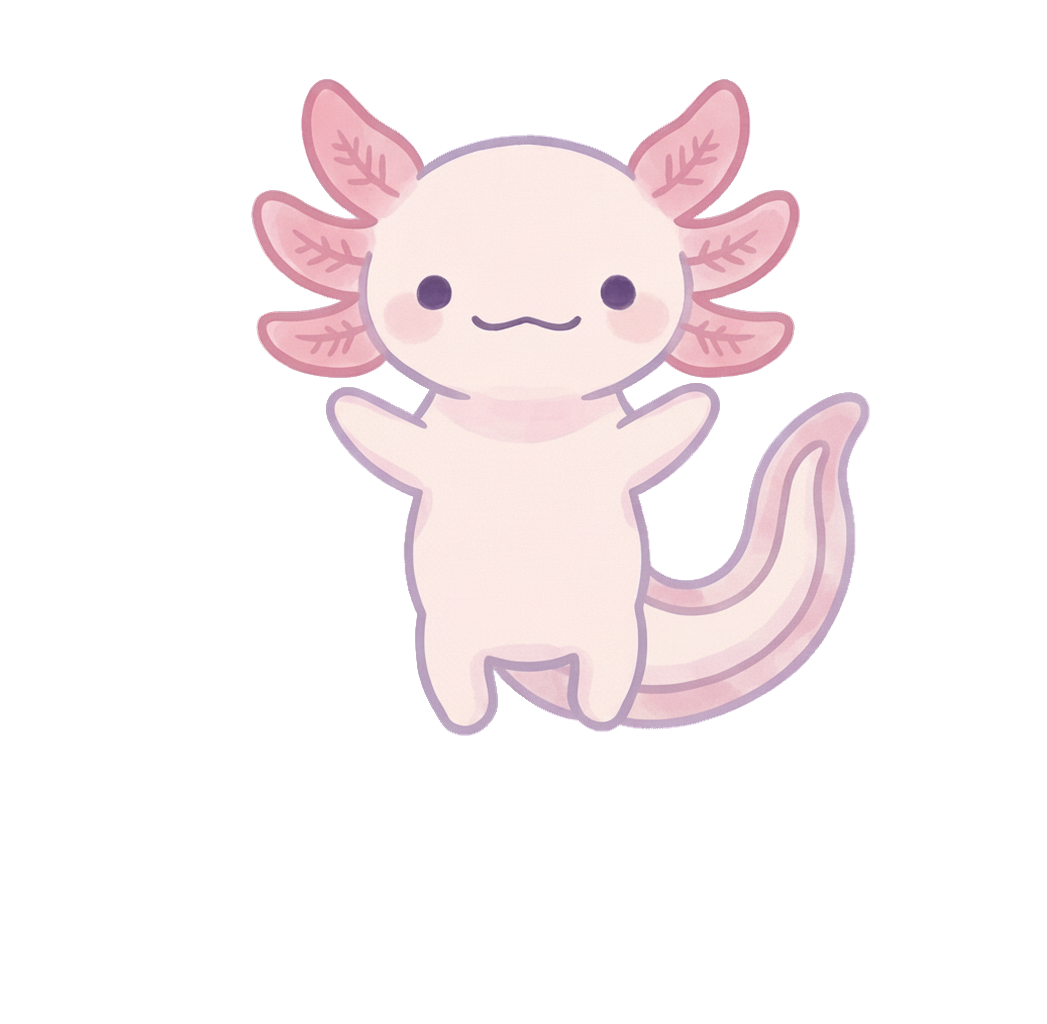
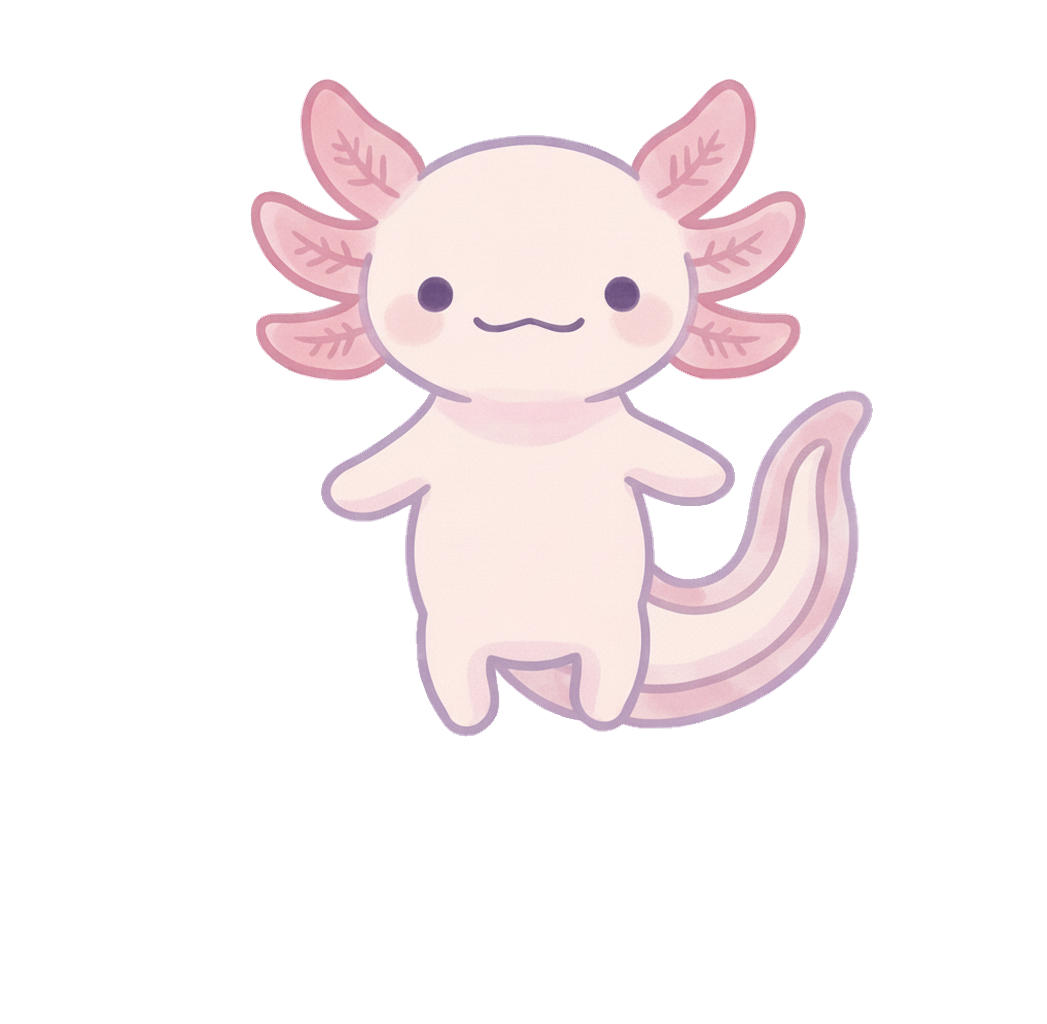
Correcciones de feedback: diagonal revertida, escala, hitbox, velocidad, tiburón
- swim_diagonal_01/02: revertidas a la versión previa al arreglo de la boca
  (commit d3a69e5) — pedido explícito, el resultado del arreglo se veía
  horrible en juego real pese a haberse verificado bien en pruebas
  aisladas.
- idle: se quita idle_02 (la cola completamente hacia la izquierda, se veía
  raro respecto a los otros 3 frames) y se renumeran los que quedaban.
  LUMI_FRAME_COUNT.idle baja de 4 a 3.
- Corrección real encontrada: el arte de swim_right/swim_left está dibujado
  ~57% más grande que idle/swim_up dentro del mismo lienzo (medido por
  ancho de cabeza+branquias) — no es una pose distinta, es una
  inconsistencia del asset. Se corrige con SWIM_SIDE_SCALE_CORRECTION
  (0.64) aplicado solo en esos dos estados, sin tocar el arte.
- Hitbox de Lumi encogida más todavía (240x460 -> 240x320, ahora
  claramente más pequeña que la silueta visible) — seguía sintiéndose que
  golpeaba cosas sin tocarlas.
- LUMI_SWIM_SPEED 220->260 y CAMERA_AUTO_RISE_SPEED 22->30: Lumi y la
  cámara se sentían lentas.
- Boost del nenúfar: los últimos 150ms bajan la velocidad a la mitad de
  forma gradual en vez de cortar en seco de golpe a velocidad normal.
- Tiburón: patrulla ahora un radio local (±260px desde donde aparece) en
  vez de todo el ancho del mundo, así el vaivén se nota mientras está a la
  vista; velocidad de patrulla subida (70->130); añadido un pulso de
  escala tipo coletazo además del balanceo que ya tenía, para que se lea
  como que nada activamente.
[…]

diff --git a/src/entities/Lumi.ts b/src/entities/Lumi.ts
@@ -1,5 +1,5 @@
 import Phaser from "phaser";
-import { LUMI_DRIFT_SPEED, LUMI_SCALE, LUMI_SWIM_SPEED } from "@/config/GameConfig";
+import { LUMI_DRIFT_SPEED, LUMI_SCALE, LUMI_SWIM_SPEED, SWIM_SIDE_SCALE_CORRECTION } from "@/config/GameConfig";
 import { frameKey } from "@/config/LumiAnimConfig";
 import type { DirectionVector } from "@/systems/InputController";
 
@@ -17,6 +17,11 @@ type LumiState =
 const BOOST_DURATION_MS = 550;
 // Pedido explícito: que el nenúfar impulse más hacia arriba.
 const BOOST_SPEED = LUMI_SWIM_SPEED * 2.9;
+// El boost cortaba en seco de velocidad máxima a velocidad normal en el
+// último frame — se notaba raro. Los últimos BOOST_EASE_MS bajan la
+// velocidad a la mitad de forma gradual, así el salto que queda al
+// terminar de verdad es mucho más pequeño.
+const BOOST_EASE_MS = 150;
 
 /**
  * Envuelve el sprite físico de Lumi y decide qué animación reproducir
@@ -55,9 +60,13 @@ export class Lumi {
     // nenúfar se activara "desde lejos". Un cuerpo más ajustado al torso
     // (coordenadas en el espacio del frame sin escalar, 1047x1024) hace
     // que el contacto se sienta real.
+    // Pedido explícito: seguía sintiéndose que "chocan las cosas sin
+    // tocarlas" — se encoge más todavía, y más pequeña que la silueta
+    // visible del personaje a propósito (mejor errar por ese lado que por
+    // el de "me tocó y no debería haber pasado nada").
     const body = this.sprite.body as Phaser.Physics.Arcade.Body;
-    body.setSize(360, 460);
-    body.setOffset(343, 300);
+    body.setSize(240, 320);
+    body.setOffset(403, 370);
     this.sprite.play("idle");
 
     this.diagonalA = scene.add.image(x, y, frameKey("swim_diagonal", 1)).setScale(LUMI_SCALE).setVisible(false);
@@ -98,10 +107,13 @@ export class Lumi {
 
     if (this.boostRemainingMs > 0) {
       this.boostRemainingMs -= deltaMs;
+      const easeFactor =
+        this.boostRemainingMs < BOOST_EASE_MS ? Math.max(this.boostRemainingMs, 0) / BOOST_EASE_MS : 1;
+      const boostSpeed = BOOST_SPEED * (0.5 + 0.5 * easeFactor);
       // El empuje vertical del propulsor manda, pero el jugador sigue
       // pudiendo dirigirse a los lados mientras dura — no es una pérdida
       // de control, es un impulso hacia arriba con dirección libre.
-      body.setVelocity(direction.x * LUMI_SWIM_SPEED, -BOOST_SPEED);
+      body.setVelocity(direction.x * LUMI_SWIM_SPEED, -boostSpeed);
       // La pose "boost" dedicada no convencía visualmente: el impulso
       // reutiliza la propia animación de nadar hacia arriba (más partículas
       // de por medio, ver PondScene), no un pose nuevo.
@@ -149,6 +161,10 @@ export class Lumi {
     return state === "swim_up_right" || state === "swim_up_left" || state === "swim_down_right" || state === "swim_down_left";
   }
 
+  private static isSideSwim(state: LumiState): boolean {
+    return state === "swim_right" || state === "swim_left";
+  }
+
   /** Arranca (una sola vez) el fundido cruzado infinito entre las dos
    * imágenes diagonales. Se queda corriendo de fondo aunque no se vea. */
   private ensureDiagonalFade() {
@@ -184,6 +200,12 @@ export class Lumi {
       this.diagonalA.setVisible(false);
       this.diagonalB.setVisible(false);
     }
+
+    // El arte de swim_right/swim_left está dibujado sensiblemente más
+    // grande que el resto de poses dentro del mismo lienzo (ver
+    // SWIM_SIDE_SCALE_CORRECTION) — se compensa aquí, no es una elección de
+    // diseño sino corregir una inconsistencia real del asset.
+    this.sprite.setScale(Lumi.isSideSwim(next) ? LUMI_SCALE * SWIM_SIDE_SCALE_CORRECTION : LUMI_SCALE);
 
     switch (next) {
       case "idle":

diff --git a/src/entities/Shark.ts b/src/entities/Shark.ts
@@ -1,20 +1,29 @@
 import Phaser from "phaser";
+import { SHARK_PATROL_SPEED } from "@/config/GameConfig";
 
 const BOB_AMPLITUDE = 14;
 const BOB_SPEED = 0.5;
-const TILT_AMOUNT = 0.06;
-const PATROL_SPEED = 70; // px/seg
+const TILT_AMOUNT = 0.09;
+// "Coletazo": un pulso rápido de escala a lo largo del cuerpo, más rápido
+// que el vaivén de arriba/abajo — es lo que hace que se lea como que está
+// nadando activamente y no solo flotando de lado a lado.
+const TAIL_PULSE_AMOUNT = 0.05;
+const TAIL_PULSE_SPEED = 3.2;
 
 /**
- * Segundo enemigo: un tiburón que patrulla de un lado a otro de una franja
- * horizontal (a diferencia de la medusa, que solo deriva un poco). Usa
- * cuerpo físico DINÁMICO (no estático como la medusa/nenúfar): recorre
- * demasiada distancia como para que un cuerpo estático fijo en el punto de
- * aparición siga sirviendo de hitbox.
+ * Segundo enemigo: un tiburón que patrulla de un lado a otro dentro de un
+ * radio local alrededor de su punto de aparición (a diferencia de la
+ * medusa, que solo deriva un poco). Usa cuerpo físico DINÁMICO (no
+ * estático como la medusa/nenúfar): recorre demasiada distancia como para
+ * que un cuerpo estático fijo en el punto de aparición siga sirviendo de
+ * hitbox. El radio es local (no todo el ancho del mundo) para que el
+ * vaivén se note claramente mientras Lumi lo tiene a la vista.
  */
 export class Shark {
   readonly sprite: Phaser.Physics.Arcade.Image;
   private baseY: number;
+  private baseScaleX: number;
+  private baseScaleY: number;
   private phase: number;
   private direction: 1 | -1;
 
@@ -32,12 +41,14 @@ export class Shark {
     (this.sprite.body as Phaser.Physics.Arcade.Body).setAllowGravity(false);
 
     this.baseY = y;
+    this.baseScaleX = scale;
+    this.baseScaleY = scale;
     this.phase = Phaser.Math.FloatBetween(0, Math.PI * 2);
     // El arte mira hacia la izquierda por defecto: moverse a la derecha
     // necesita flip.
     this.direction = Math.random() < 0.5 ? 1 : -1;
     this.sprite.setFlipX(this.direction === 1);
-    this.sprite.setVelocityX(PATROL_SPEED * this.direction);
+    this.sprite.setVelocityX(SHARK_PATROL_SPEED * this.direction);
   }
 
   update(time: number) {
@@ -46,14 +57,20 @@ export class Shark {
     if (this.sprite.x >= this.maxX && this.direction === 1) {
       this.direction = -1;
       this.sprite.setFlipX(false);
-      this.sprite.setVelocityX(PATROL_SPEED * this.direction);
+      this.sprite.setVelocityX(SHARK_PATROL_SPEED * this.direction);
     } else if (this.sprite.x <= this.minX && this.direction === -1) {
       this.direction = 1;
       this.sprite.setFlipX(true);
-      this.sprite.setVelocityX(PATROL_SPEED * this.direction);
+      this.sprite.setVelocityX(SHARK_PATROL_SPEED * this.direction);
     }
 
     this.sprite.y = this.baseY + Math.sin(t * BOB_SPEED + this.phase) * BOB_AMPLITUDE;
     this.sprite.rotation = Math.sin(t * BOB_SPEED + this.phase) * TILT_AMOUNT * this.direction;
+
+    const pulse = Math.sin(t * TAIL_PULSE_SPEED + this.phase);
+    this.sprite.setScale(
+      this.baseScaleX * (1 + pulse * TAIL_PULSE_AMOUNT),
+      this.baseScaleY * (1 - pulse * TAIL_PULSE_AMOUNT * 0.5),
+    );
   }
 }

diff --git a/src/config/GameConfig.ts b/src/config/GameConfig.ts
@@ -26,7 +26,15 @@ export const START_Y = 700;
 // pantalla" de STYLE_GUIDE.md — avisado, no es un descuido.
 export const LUMI_SCALE = 0.075 * 3 * 1.2;
 
-export const LUMI_SWIM_SPEED = 220; // px/seg
+// Pedido explícito: Lumi se sentía lenta. Subido desde 220.
+export const LUMI_SWIM_SPEED = 260; // px/seg
+
+// El arte de swim_right/swim_left está dibujado sensiblemente más grande
+// que el de idle/swim_up/diagonal dentro del mismo lienzo (~57% más grande
+// de cabeza a cabeza, medido) — no es una pose distinta, es una
+// inconsistencia real del asset. Se corrige por código con un multiplicador
+// extra solo en esos dos estados en vez de regenerar el arte.
+export const SWIM_SIDE_SCALE_CORRECTION = 0.64;
 
 // Hundimiento suave cuando Lumi no nada activamente: sin esto no habría
 // tensión ninguna en un juego de escalada (podrías quedarte quieta para
@@ -56,16 +64,21 @@ export const JELLYFISH_SCALE = 0.16;
 // La cámara ya no espera solo a que Lumi suba: sube ella sola a este ritmo
 // (px/seg) sin parar, mucho más despacio que nadar a tope, para que exista
 // presión incluso si el jugador va despacio. Si Lumi sube más rápido que
-// esto, manda su propia velocidad (ver PondScene.update).
-export const CAMERA_AUTO_RISE_SPEED = 22;
+// esto, manda su propia velocidad (ver PondScene.update). Pedido explícito:
+// un poco más rápido que antes.
+export const CAMERA_AUTO_RISE_SPEED = 30;
 
 // Tiburones: segundo enemigo, "poco a poco" tras la medusa — empiezan a
 // aparecer más arriba (altura ~300, dentro de la Zona 1) y patrullan de
-// lado a lado en vez de solo derivar como la medusa.
+// lado a lado en vez de solo derivar como la medusa. Patrullan un radio
+// local (no todo el ancho del mundo) para que el vaivén se note dentro del
+// tiempo que dura el encuentro, no una sola pasada en una dirección.
 export const SHARK_START_OFFSET = 3000; // px por encima de START_Y (altura ~300)
 export const SHARK_MIN_GAP = 1200;
 export const SHARK_MAX_GAP = 2000;
 export const SHARK_SCALE = 0.22;
+export const SHARK_PATROL_SPEED = 130;
+export const SHARK_PATROL_RANGE = 260; // px a cada lado del punto de aparición
 
 // Calamares: tercer enemigo, más arriba todavía (altura ~500) — impulsos
 // rápidos en vez de patrulla constante, para que cada peligro se esquive

diff --git a/src/systems/SharkSpawner.ts b/src/systems/SharkSpawner.ts
@@ -1,10 +1,10 @@
 import Phaser from "phaser";
 import { Shark } from "@/entities/Shark";
-import { SHARK_MAX_GAP, SHARK_MIN_GAP, SHARK_SCALE } from "@/config/GameConfig";
+import { SHARK_MAX_GAP, SHARK_MIN_GAP, SHARK_PATROL_RANGE, SHARK_SCALE } from "@/config/GameConfig";
 
 const SPAWN_LOOKAHEAD = 900;
 const DESPAWN_MARGIN = 1200;
-const PATROL_MARGIN_X = 80;
+const WORLD_MARGIN_X = 80;
 
 /**
  * Segundo enemigo: tiburones que patrullan de lado a lado. Igual patrón de
@@ -27,7 +27,13 @@ export class SharkSpawner {
   private spawnAt(y: number) {
     const scale = SHARK_SCALE * Phaser.Math.FloatBetween(0.9, 1.1);
     const x = Phaser.Math.Between(this.worldWidth * 0.3, this.worldWidth * 0.7);
-    const shark = new Shark(this.scene, x, y, scale, PATROL_MARGIN_X, this.worldWidth - PATROL_MARGIN_X);
+    // Radio local alrededor del punto de aparición, recortado a los bordes
+    // del mundo — así el vaivén se nota dentro del tiempo que Lumi lo tiene
+    // a la vista, en vez de una sola pasada de un lado a otro de todo el
+    // mundo.
+    const minX = Math.max(WORLD_MARGIN_X, x - SHARK_PATROL_RANGE);
+    const maxX = Math.min(this.worldWidth - WORLD_MARGIN_X, x + SHARK_PATROL_RANGE);
+    const shark = new Shark(this.scene, x, y, scale, minX, maxX);
     this.group.add(shark.sprite);
     this.sharks.push(shark);
     if (y < this.highestY) this.highestY = y;

diff --git a/src/config/LumiAnimConfig.ts b/src/config/LumiAnimConfig.ts
@@ -12,8 +12,13 @@
 // boost/ ya no se usa: la pose dedicada no convencía, el impulso del
 // nenúfar ahora reutiliza la animación swim_up (ver Lumi.ts). El archivo
 // se queda en disco por si se retoma más adelante, solo se quitó de aquí.
+//
+// idle bajó de 4 a 3: el idle_02 original tenía la cola completamente hacia
+// el lado izquierdo (asimétrica respecto a los otros 3, que la llevan más
+// centrada) y se veía raro en el ciclo — se quitó del todo y se
+// renumeraron los que quedaban (el antiguo idle_03 pasó a ser idle_02, etc).
 export const LUMI_FRAME_COUNT: Record<string, number> = {
-  idle: 4,
+  idle: 3,
   sleep: 3,
   swim_right: 4,
   swim_up: 4,

diff --git a/STYLE_BIBLE.md b/STYLE_BIBLE.md
@@ -60,6 +60,28 @@ superficie (zona 8) los colores vuelven a ser claros y cálidos. El cambio de
 paleta se implementa como tinte de escena (ver `ZoneManager`), no repintando
 cada asset por zona.
 
+## Profundidad y atmósfera (referencia del usuario, para Zona 2 en adelante)
+
+El usuario compartió una imagen de referencia para que los fondos no se
+sientan planos como el estanque actual (capas de rocas + plantas + cielo
+liso). Cualidades a llevar a las zonas nuevas, dentro del mismo estilo
+acuarela pastel de siempre (nada de esto cambia el lenguaje visual, solo lo
+enriquece):
+
+- **Rayos de luz marcados** atravesando el agua de arriba a abajo, no solo
+  un degradado de cielo liso.
+- **Estructuras/ruinas hundidas** en el fondo lejano (arcos, columnas,
+  siluetas tipo pequeñas construcciones de piedra) — dan sensación de mundo
+  con historia, no solo terreno natural.
+- **Fauna en varias profundidades a la vez**: peces pequeños muy cerca de
+  cámara y otros mucho más lejos/difuminados en el mismo plano, en vez de
+  un único plano de peces de fondo.
+- **Más variación de color y textura** en rocas/coral (parches, vetas,
+  degradados suaves) en vez de un tono plano por elemento.
+
+Esto es dirección artística para cuando generemos el arte de la Zona 2 en
+adelante (tarea pendiente), no un cambio inmediato de código.
+
 ## Prohibido (recordatorio, ya en CLAUDE.md)
 
 Pixel art, 3D, fotorrealismo, anime, cel-shading fuerte, contornos negros,
